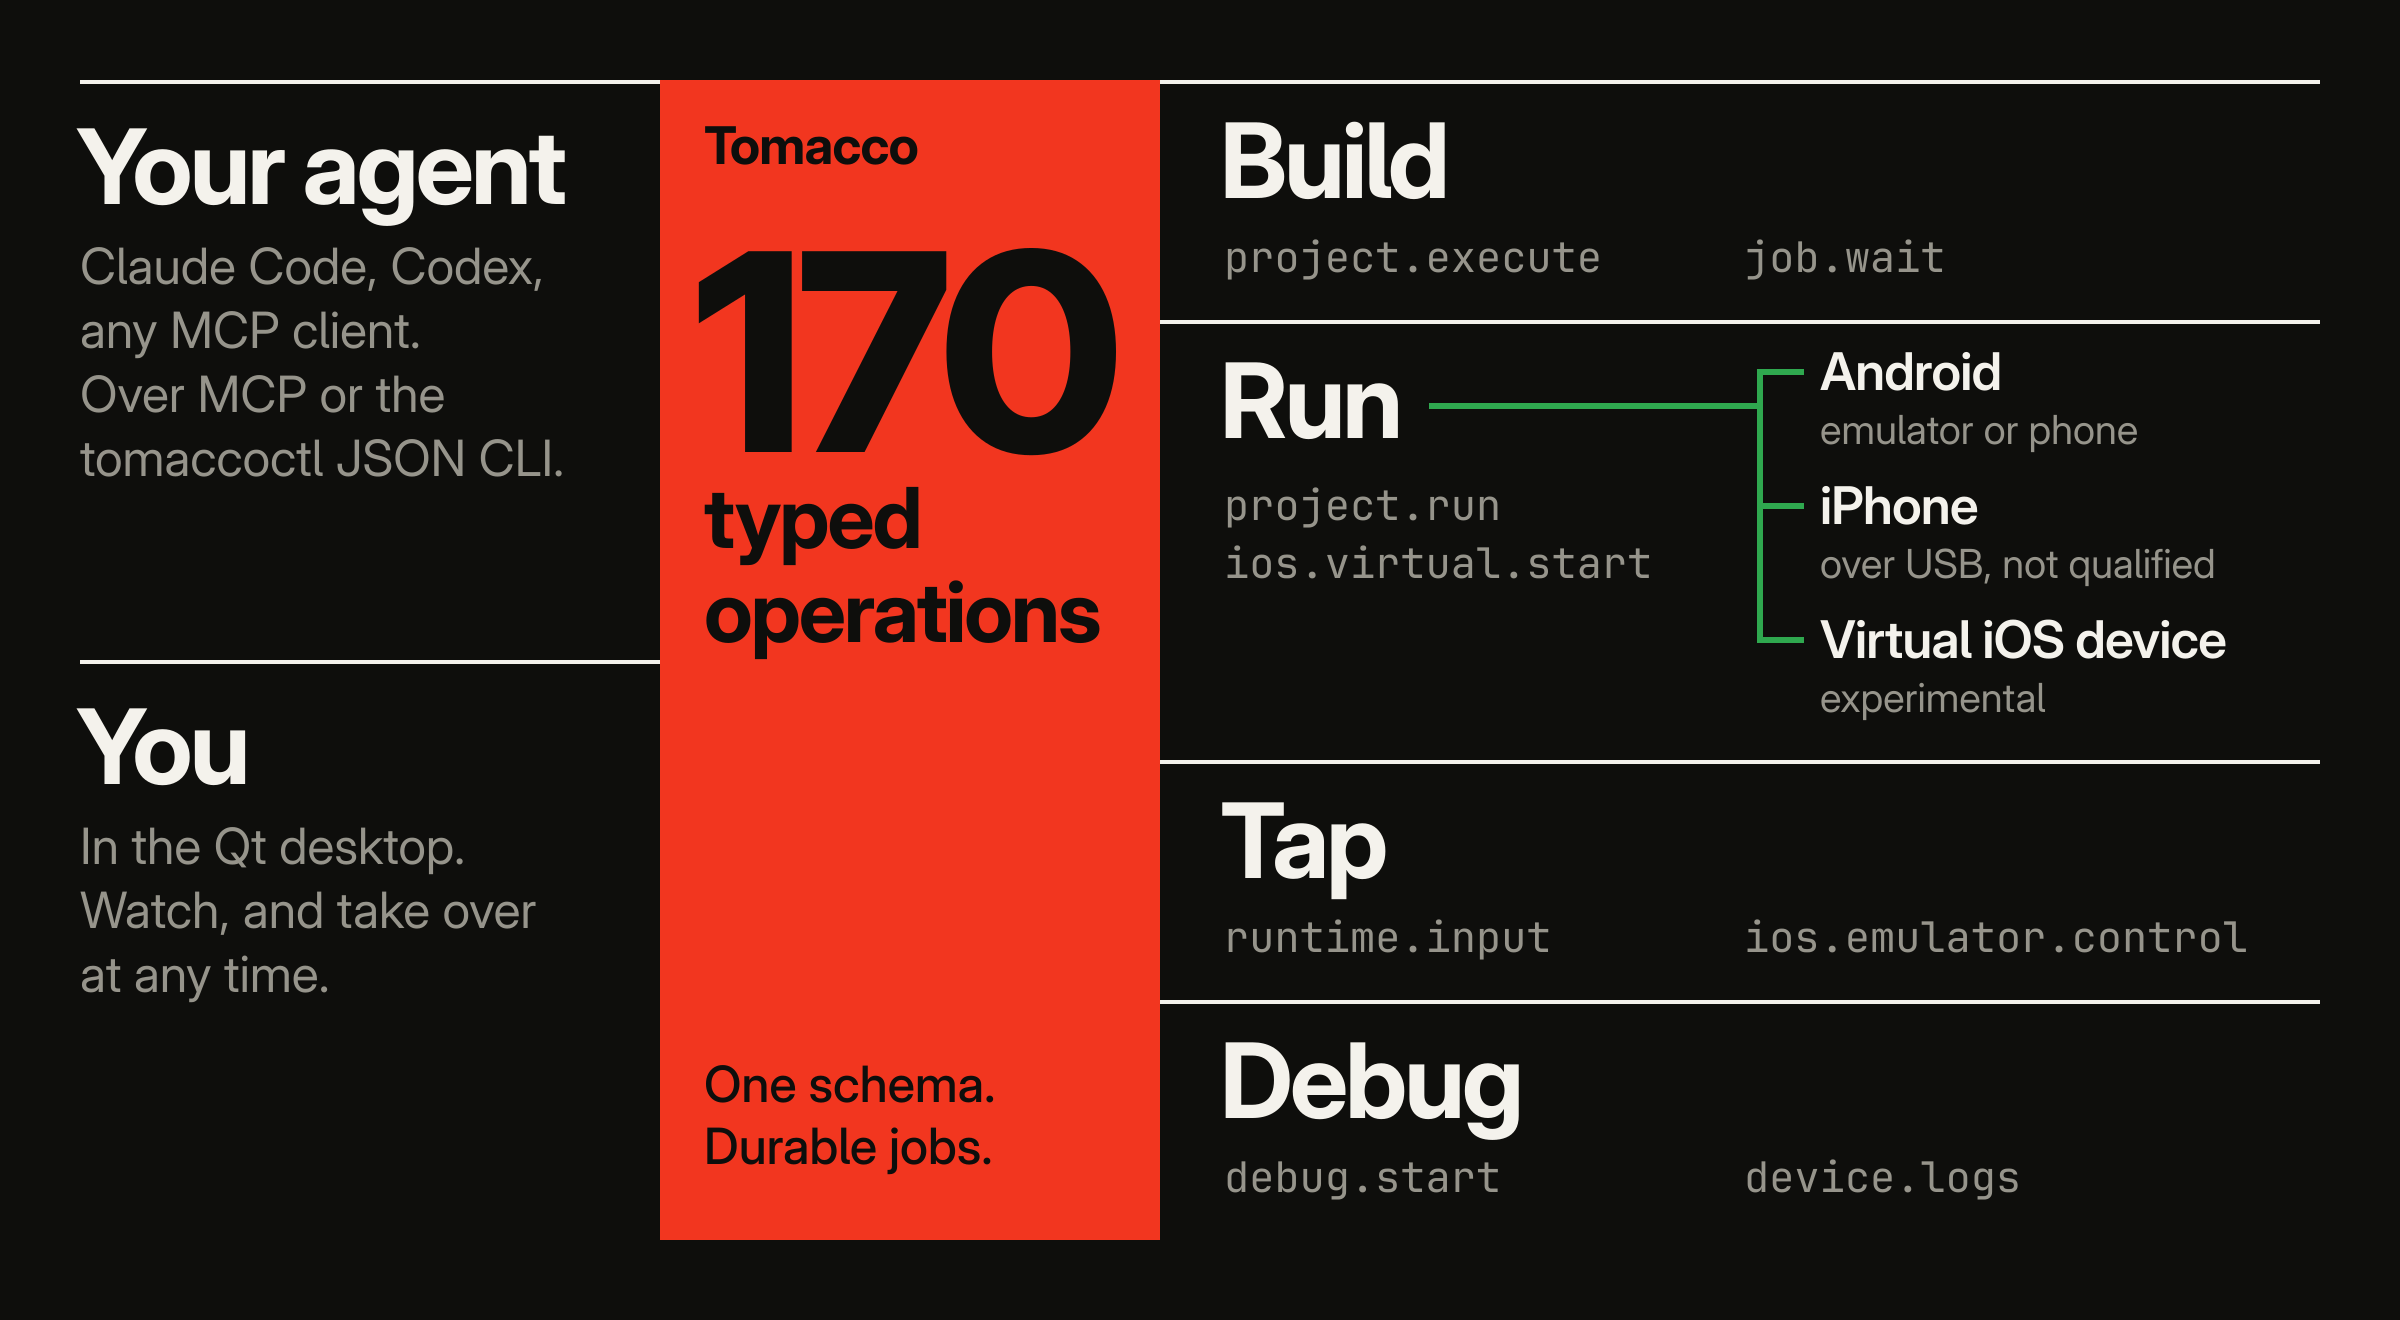
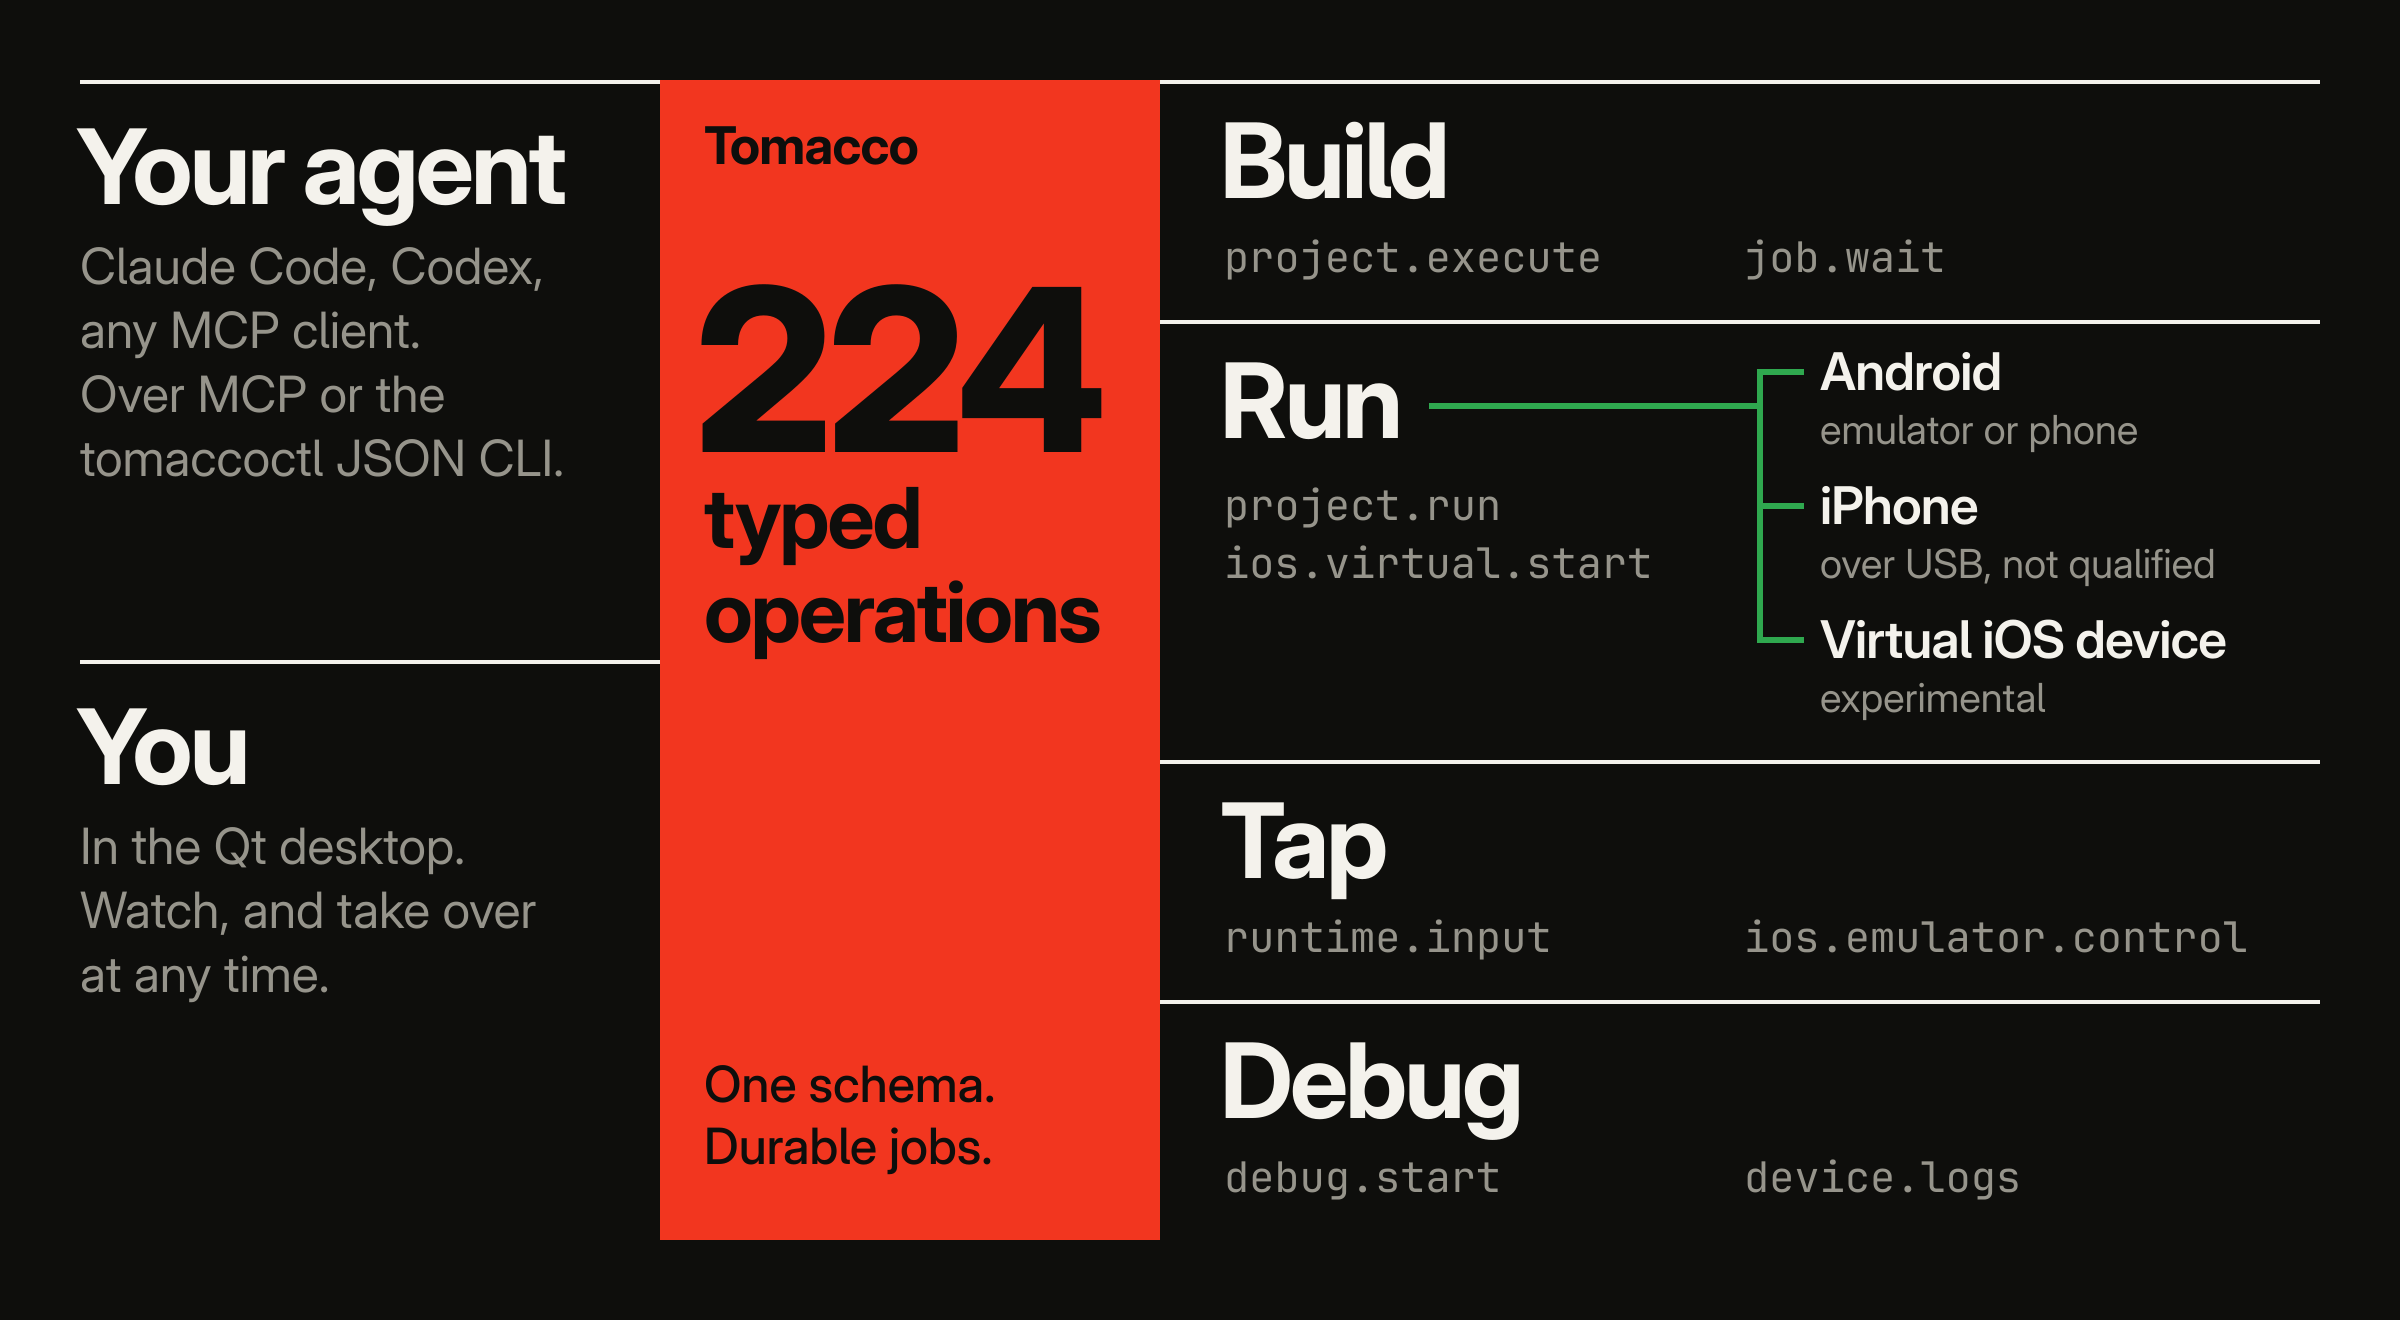
README graphics: show 224 operations, and fit the count in its column
The social card and the how-it-works diagrams still said 170 operations.
Regenerated with generate.py, which reads the count from operations.json;
the diagram now sizes the number to its column, since 224 ran past it. A
test checks the drawn count against operations.json. The desktop capture,
retaken offscreen from the 1.2.1 build, came out byte for byte the same,
so only its alt text changes to say what it shows.

Changed region(s): [[0.2812, 0.1864, 0.4688, 0.3417]]

diff --git a/assets/readme/generate.py b/assets/readme/generate.py
@@ -243,7 +243,10 @@ def how_it_works(t):
     c.rect(slab_x, top, slab_w, height, ACCENT)
     pad = 44
     c.sans(slab_x + pad, top + 84, NAME, 52, t.on_accent, 700, tracking=-0.015)
-    c.sans(slab_x + pad - 10, top + 372, str(len(OPERATIONS)), 276, t.on_accent, 800, tracking=-0.03)
+    # The count fills the slab's width at most: three wide digits do not fit at full size.
+    count = str(len(OPERATIONS))
+    size = min(276, int((slab_w - 2 * pad + 10) * 276 / sans_width(count, 276, 800, tracking=-0.03)))
+    c.sans(slab_x + pad - 10, top + 372, count, size, t.on_accent, 800, tracking=-0.03)
     c.sans(slab_x + pad, top + 468, "typed", 84, t.on_accent, 700, tracking=-0.025)
     c.sans(slab_x + pad, top + 562, "operations", 84, t.on_accent, 700, tracking=-0.025)
     c.sans(slab_x + pad, bottom - 138, "One schema.", 50, t.on_accent, 500)

diff --git a/tests/python/test_release_files.py b/tests/python/test_release_files.py
@@ -172,6 +172,13 @@ class Artwork(unittest.TestCase):
         self.assertEqual(struct.unpack(">II", data[16:24]), (1280, 640))
         self.assertLess(len(data), 1024 * 1024)
 
+    def test_the_readme_graphics_state_the_current_operation_count(self):
+        # They are drawn by assets/readme/generate.py; rerun it after the count changes.
+        count = len(json.loads((ROOT / "assets/operations.json").read_text()))
+        for stem in ("social", "how-it-works-dark", "how-it-works-light"):
+            svg = (ROOT / f"assets/readme/{stem}.svg").read_text()
+            self.assertRegex(svg, rf">(iOS · Android · )?{count}( typed operations · \w+)?</text>", stem)
+
 
 class Newcomer(unittest.TestCase):
     """Two things a stranger runs in a first minute, on the build under test."""

diff --git a/README.md b/README.md
@@ -54,9 +54,9 @@ starts without a 32 GiB disk copy, an update banner, a Docker image you build yo
 `tomaccoctl verify`. Several of these were tested with stand-ins only; the
 [release notes](docs/RELEASE_NOTES.md) say which.
 
-<img src="assets/readme/desktop.png" alt="Tomacco's native desktop showing the project workspace." width="100%">
+<img src="assets/readme/desktop.png" alt="Tomacco's desktop on its Project page for an example xtool project called Tomatoes: the build set to iOS, Debug and IPA, Run on device with no device chosen, and No device in the status bar." width="100%">
 
-<p align="center"><sub>The desktop workspace. A real capture, with no device connected.</sub></p>
+<p align="center"><sub>The Project page of the 1.2.1 desktop. A real capture, taken offscreen with no device connected.</sub></p>
 
 ## Quick start
 
